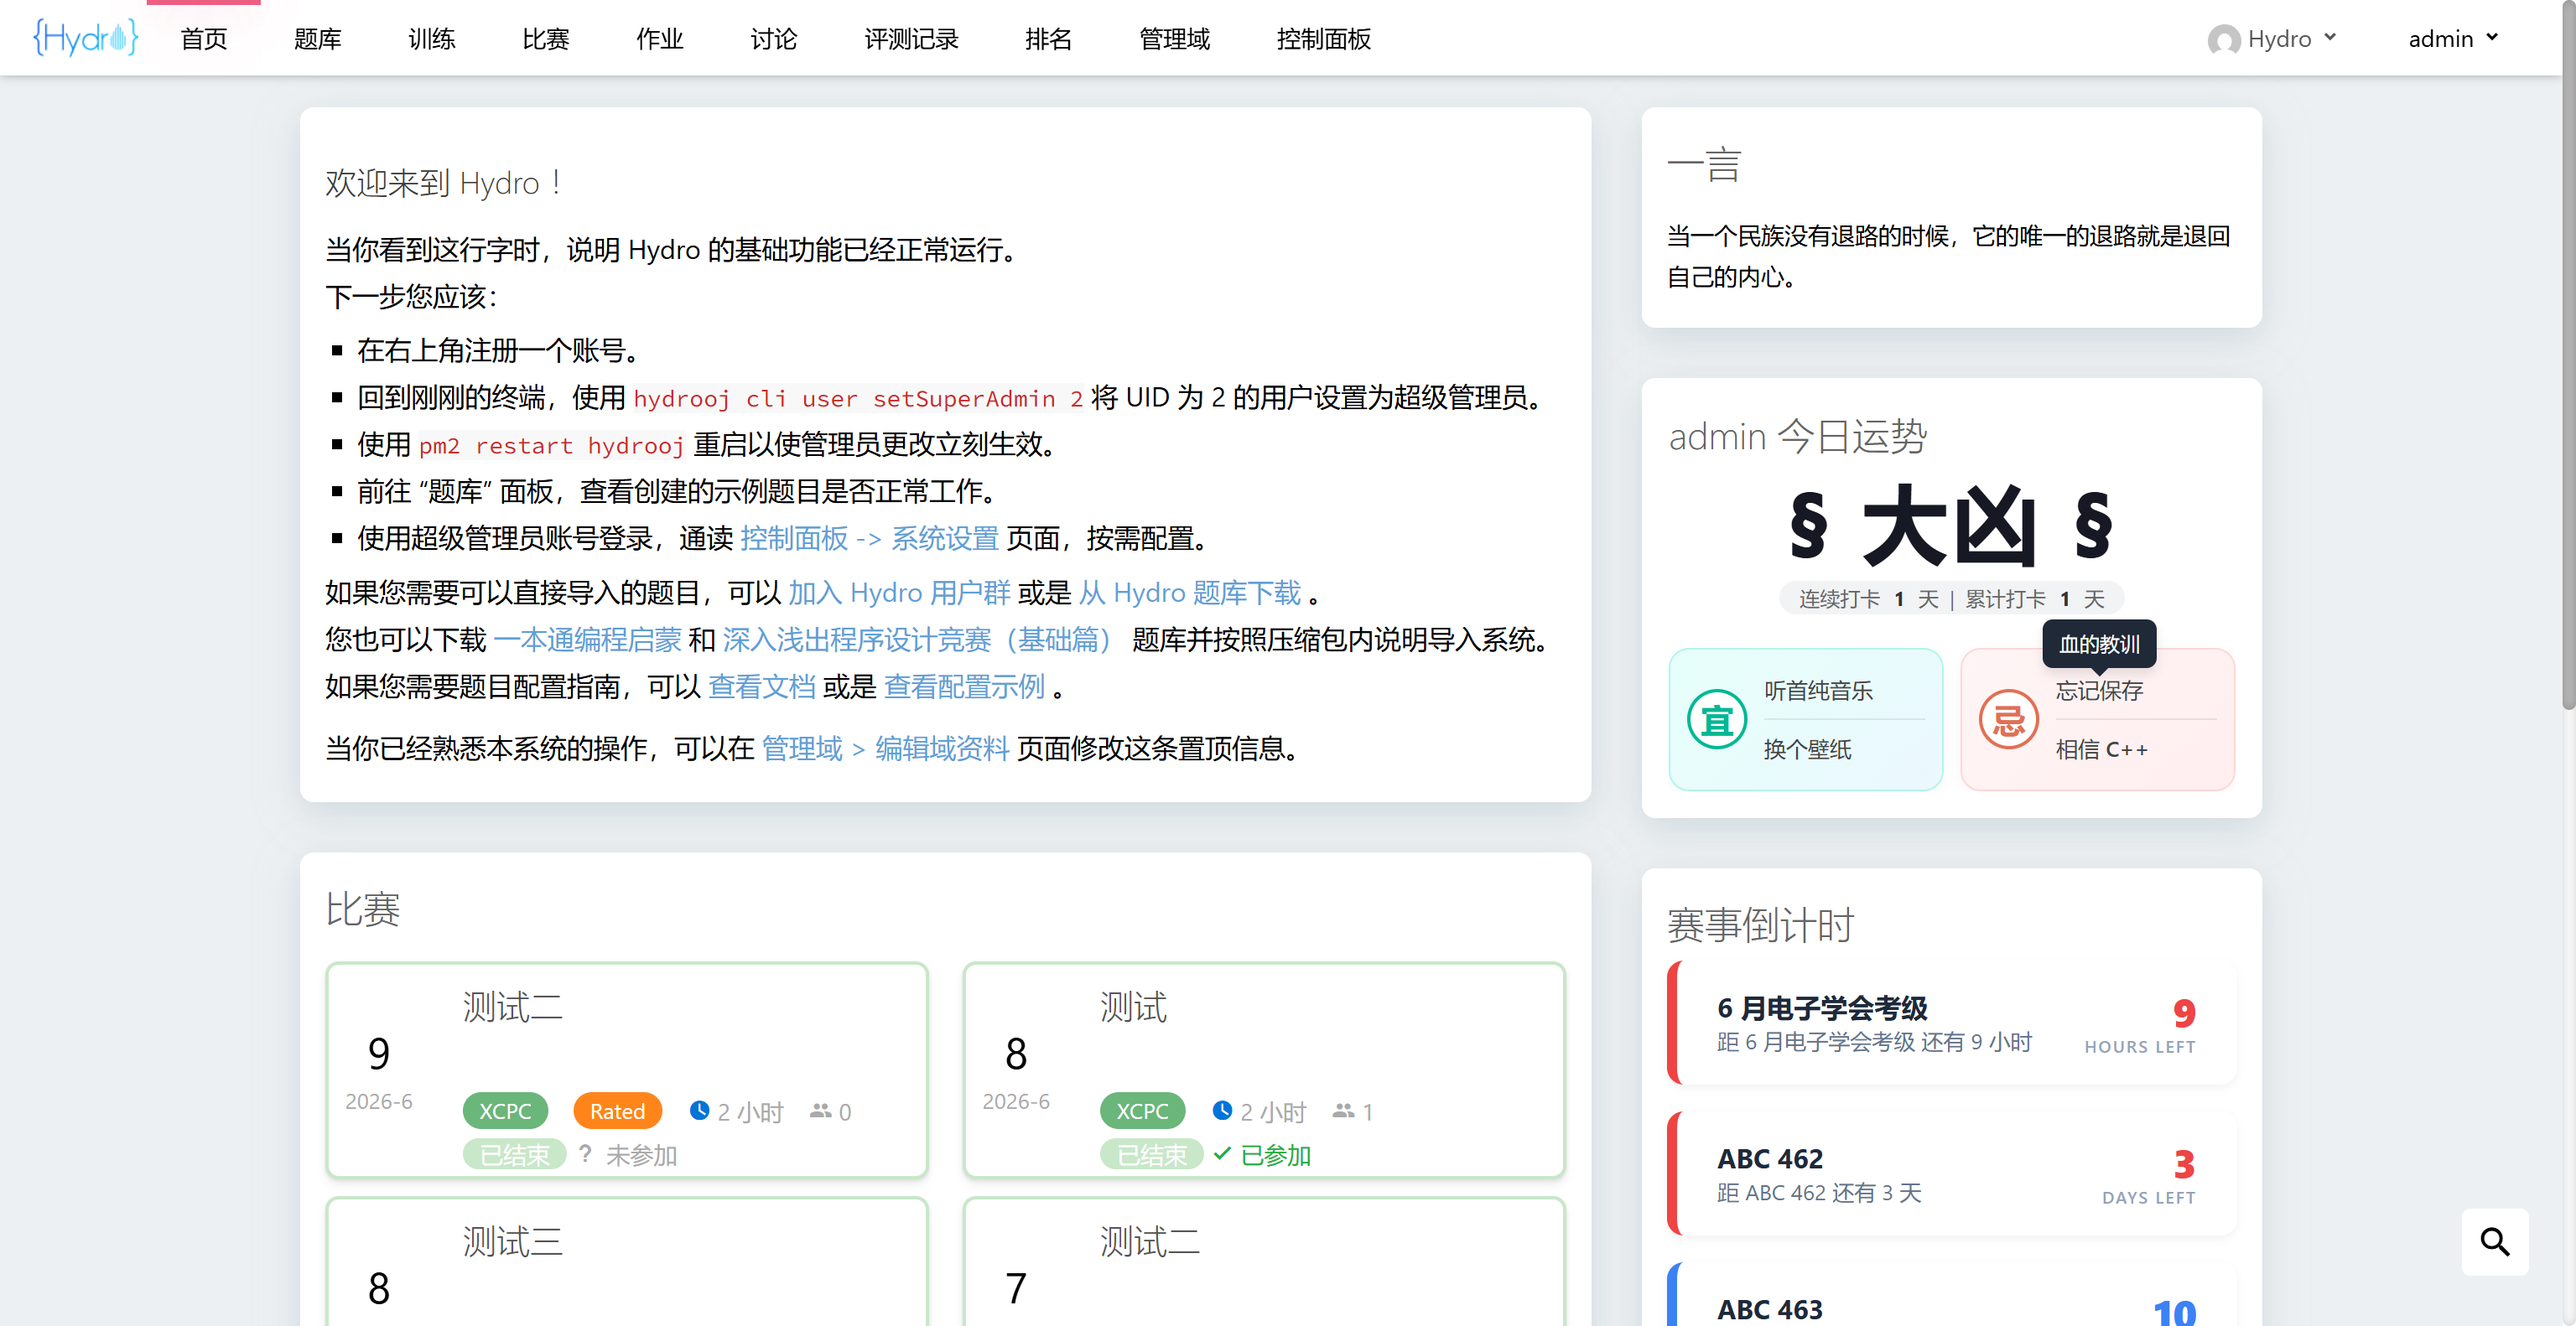
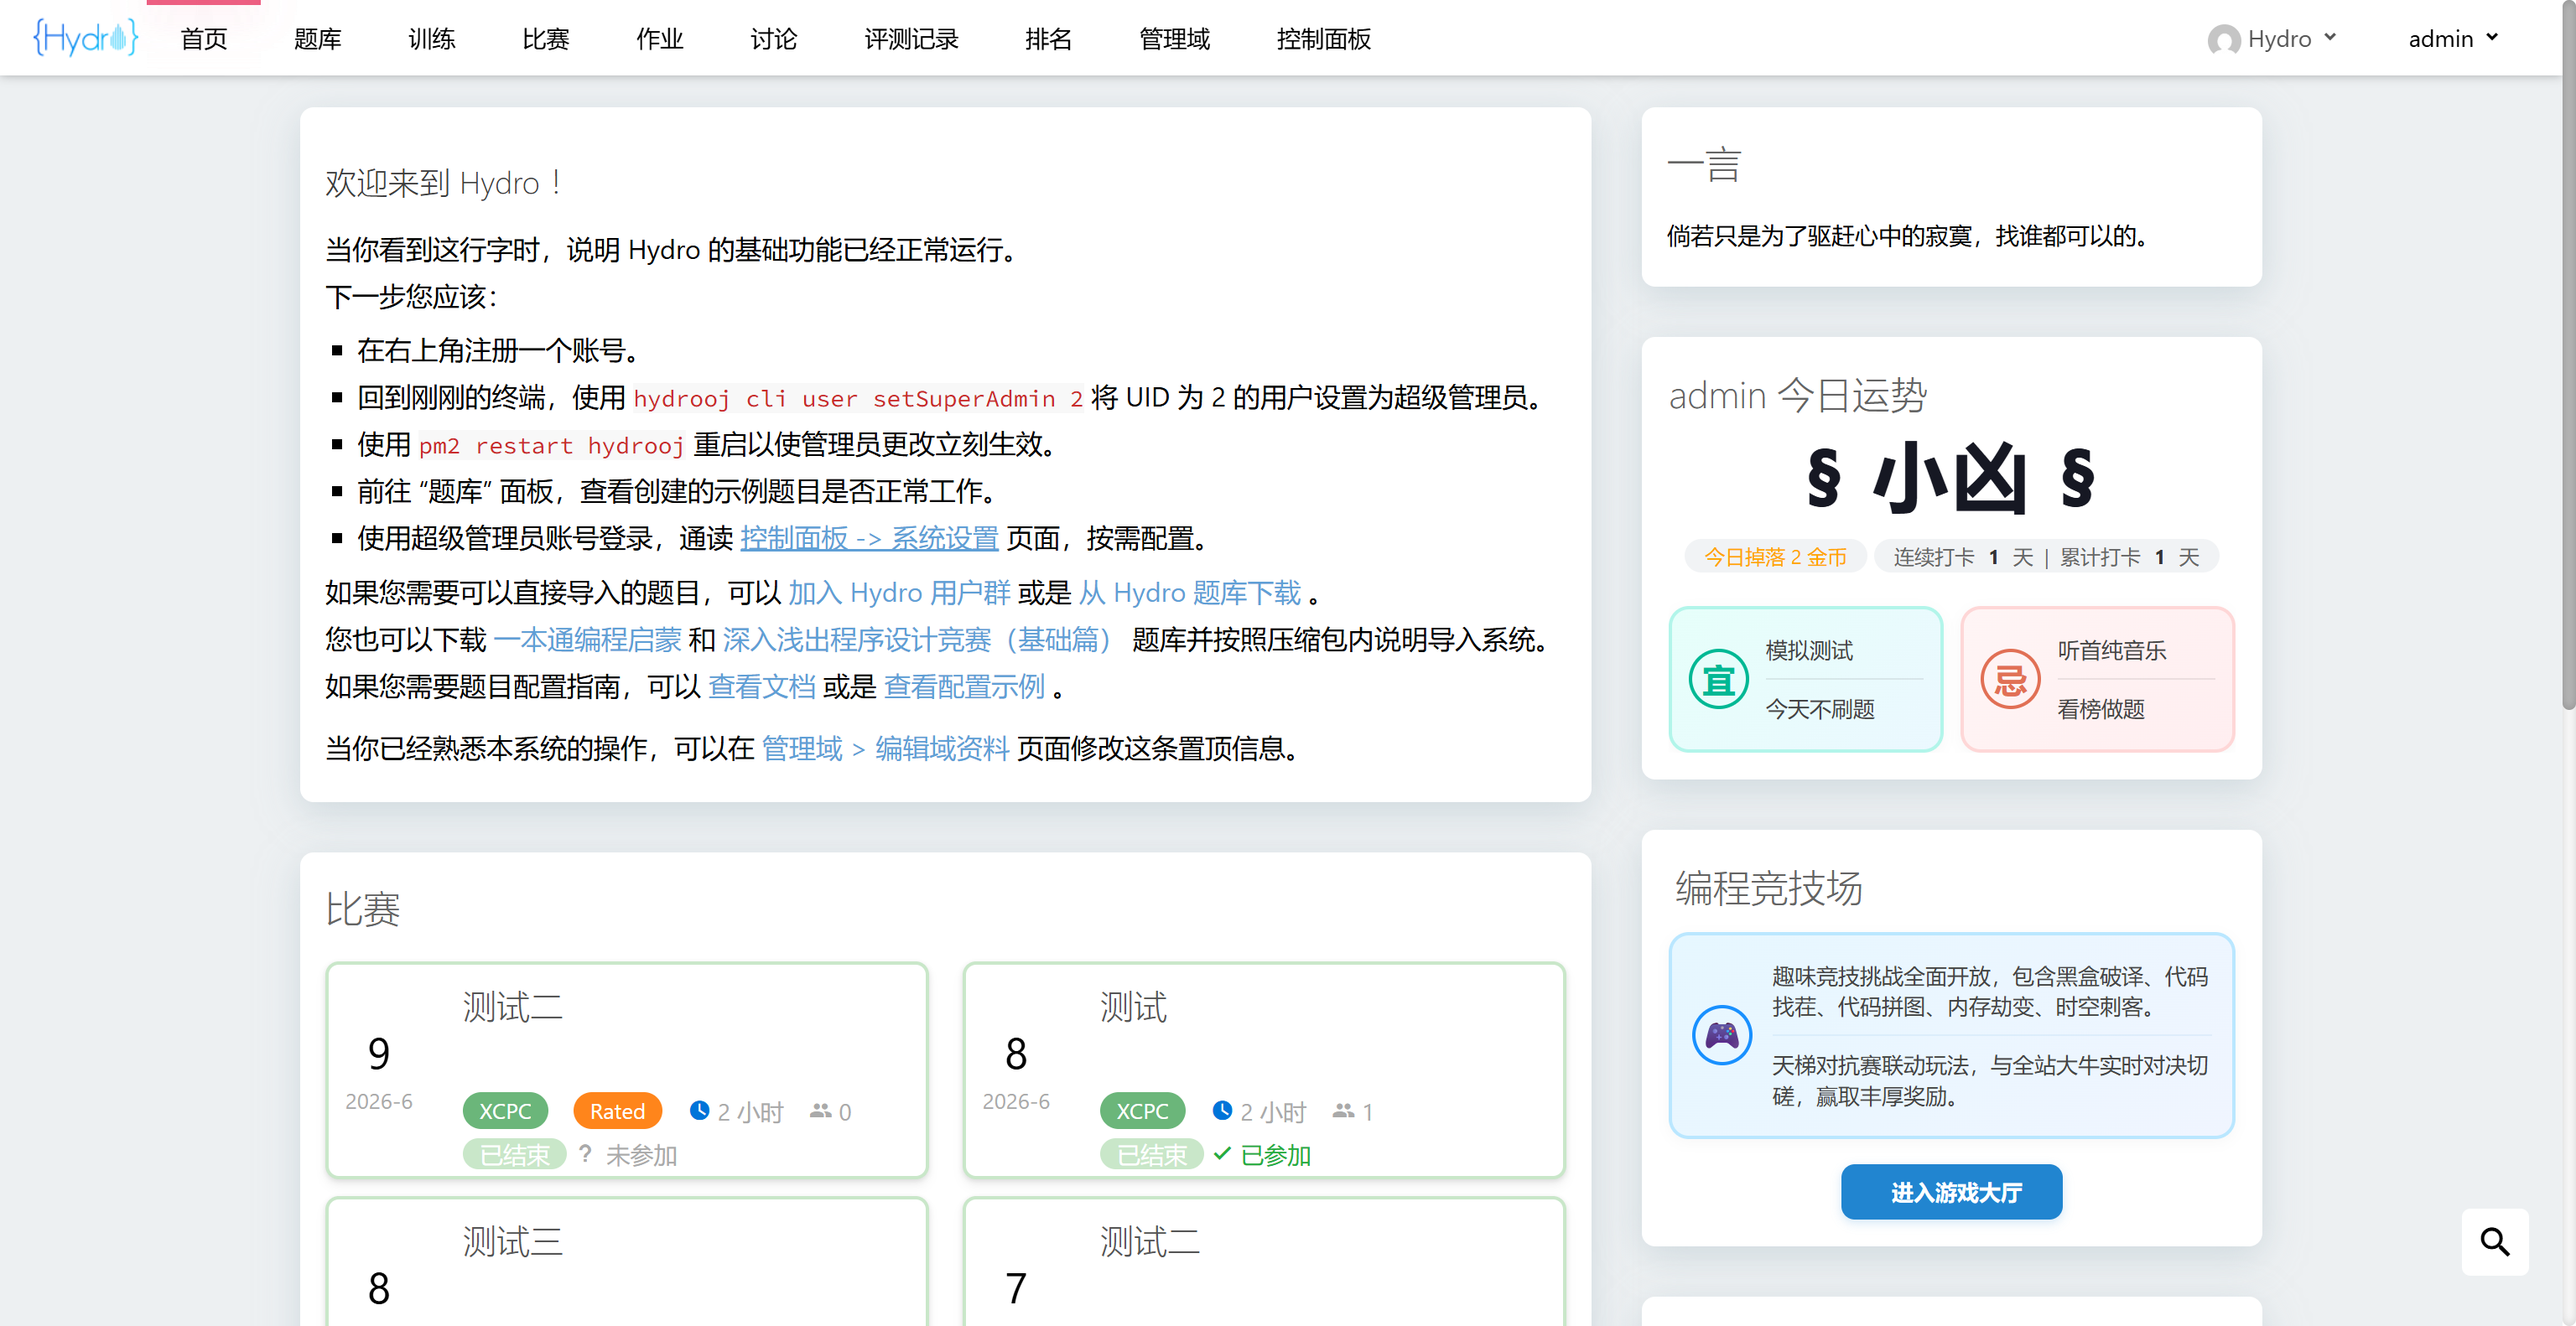
add coin

Changed region(s): [[0.625, 0.1549, 0.875, 0.8363], [0.625, 0.8363, 0.875, 1.0], [0.8438, 0.8673, 0.875, 0.8982]]

diff --git a/index.ts b/index.ts
@@ -10,6 +10,7 @@ interface CheckinDoc {
     total: number,
     type: number,
     content: string[],
+    checkinReward: number
 }
 
 declare module 'hydrooj' {
@@ -28,12 +29,12 @@ class CheckinModel {
         return await CheckinModel.coll.findOne({ uid });
     }
 
-    static async add(uid: number, date: string, count: number, total: number, type: number, content: string[]) {
+    static async add(uid: number, date: string, count: number, total: number, type: number, content: string[], checkinReward: number) {
         const ddoc = await CheckinModel.coll.findOne({ uid });
         if (ddoc) {
             const result = await CheckinModel.coll.findOneAndUpdate(
                 { uid },
-                { $set: { date, count, total, type, content } }
+                { $set: { date, count, total, type, content, checkinReward } }
             );
             return result;
         }
@@ -44,7 +45,8 @@ class CheckinModel {
                 count,
                 total,
                 type,
-                content
+                content,
+                checkinReward
             });
 
             return result;    
@@ -149,6 +151,41 @@ class CheckinHandler extends Handler {
             content.push(str);
         }
 
+        const checkinReward = Math.ceil(Math.random() * 3);
+        // 尝试掉落金币
+        try {
+            const coins = await db.collection('coins').findOne({uid});
+            
+            if (!coins) {
+                await db.collection('coins').insertOne({
+                    uid: uid,
+                    total: checkinReward,
+                    checkin: checkinReward,
+                    stages: 0,
+                    problems: 0,
+                    bonus: 0
+                })
+            }
+            else {
+                await db.collection('coins').updateOne(
+                    {uid: uid},
+                    {
+                        $inc: { total: checkinReward, checkin: checkinReward }
+                })
+            }
+
+            await db.collection('bills').insertOne({
+                createAt: new Date(),
+                rootId: uid,
+                uid: uid,
+                goodsId: "",
+                coins: checkinReward,
+                content: "[打卡奖励] " + today,
+                check: true
+            })
+        }
+        catch (error: any) { /* 忽略 */ }
+
         let doc = await CheckinModel.getByUid(uid);
 
         if (doc) {
@@ -159,11 +196,11 @@ class CheckinHandler extends Handler {
                 if (moment(doc.date).add(1, 'day').isSame(moment(today), 'day')) {
                     cnt = (doc.count || 0) + 1;
                 }
-                await CheckinModel.add(uid, today, cnt, total, type, content);
+                await CheckinModel.add(uid, today, cnt, total, type, content, checkinReward);
             }
         }
         else {
-            await CheckinModel.add(uid, today, cnt, total, type, content);
+            await CheckinModel.add(uid, today, cnt, total, type, content, checkinReward);
         }
 
         this.response.redirect = '/';
@@ -183,7 +220,7 @@ async function getCheckin(payload, handler) {
             payload.checkin.date = moment(payload.checkin.date).format("YYYY-MM-DD");
         }
     }
-    console.log(payload);
+
     return payload;
 }
 

diff --git a/templates/partials/homepage/checkin.html b/templates/partials/homepage/checkin.html
@@ -231,6 +231,11 @@
                     <div class="ck-fortune-title" style="color: {{ payload.type[payload.checkin.type].color }};">
                        § {{ payload.type[payload.checkin.type].text }} §
                     </div>
+                    {% if payload.checkin.checkinReward !== 0 %}
+                    <div class="ck-stats" style="margin-top: 6px; color: orange;">
+                        今日掉落 {{ payload.checkin.checkinReward }} 金币
+                    </div>
+                    {% endif %}
                     <div class="ck-stats">
                         连续打卡 <span>{{ payload.checkin.count }}</span> 天 &nbsp;|&nbsp; 累计打卡 <span>{{ payload.checkin.total }}</span> 天
                     </div>

diff --git a/README.md b/README.md
@@ -1,8 +1,10 @@
 # Hydro 签到插件
 
-兼容 V5.0.1 社区版，不依赖任何插件和第三方库，安装方法见官方文档。
+兼容 V5.0.1 社区版，不依赖任何插件和第三方库，安装方法见官方文档。在安装了 `hydro-coin` 插件的情况下，会随机掉落 $1\sim 3$ 枚金币。
 
 整体样式仿照洛谷打卡样式，在主运势下方随机产生两个宜事项和忌事项，以气泡形式出现详细解释。这里的事项是写在 `index.ts` 文件中的，不支持在线配置，如果要修改，确保每个事项是用 `.` 分开的两部分，前面部分是事项内容，后面部分是气泡解释内容。允许的配置项是主运势的描述，以及主运势配色，由于在 `index.ts` 中写了随机 $0\sim 6$ 的主运势，因此务必配置 7 项。
+
+打卡签到会随机掉落 $1\sim 3$ 枚金币，安装了 `hydro-coin` 插件的情况下可以查看金币账单与商城。
 
 `/img` 中是 `README.md` 的截图，安装时可以放心删除。
 
